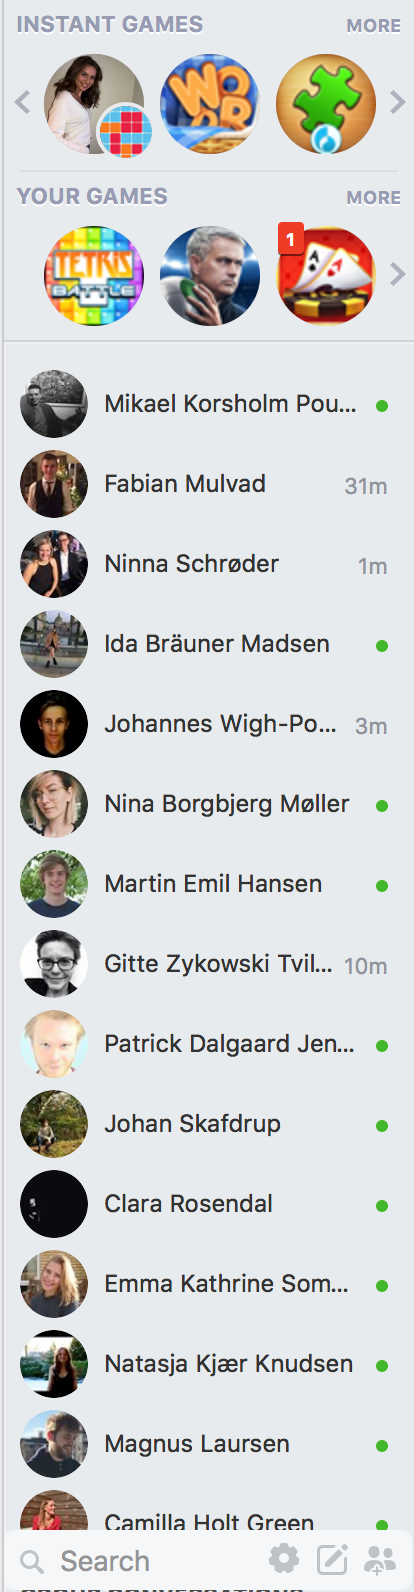
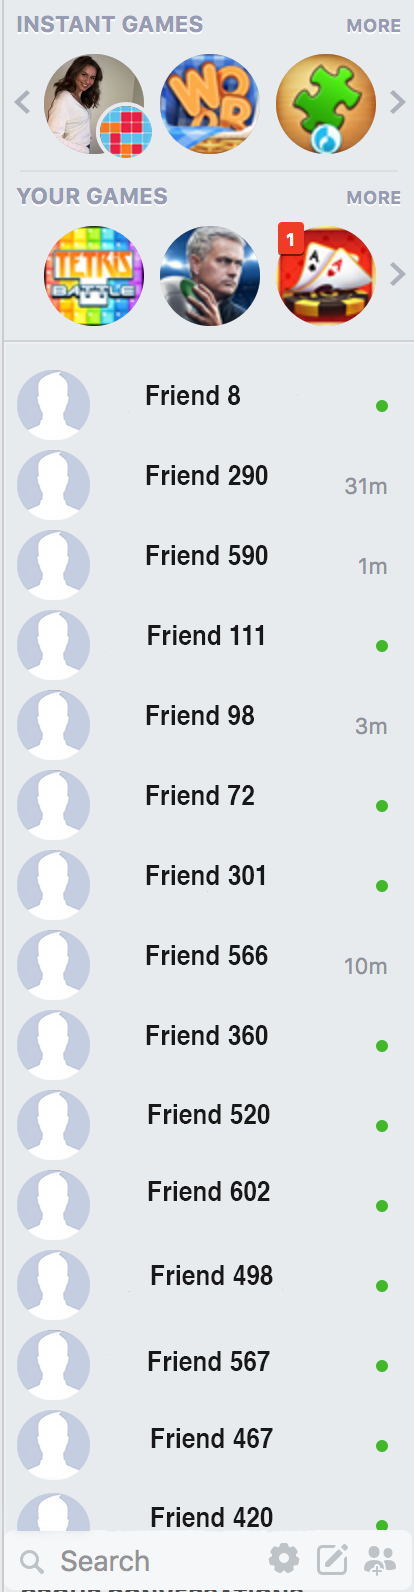
Add files via upload

diff --git a/DraftProject/empty-example/sketch.js b/DraftProject/empty-example/sketch.js
@@ -1,43 +1,345 @@
+let posts = [];
+let posts1 = [];
+let notifi = [];
+let notifi1 = [];
+let notiText = ['is looking at your post.', 'liked your post after 20 seconds.',
+'liked your post after 32 seconds.','liked your post after 11 seconds.',
+'liked your post after 64 seconds.','liked your post after 4 seconds.',
+'liked your post after 2 seconds.','liked your post after 14 seconds.',
+'has scrolled past your post.','has scrolled past your post.','has scrolled past your post.',
+'has scrolled past your post.','has scrolled past your post.','has scrolled past your post.',
+'has scrolled past your post.','has scrolled past your post.','has scrolled past your post.',
+'has scrolled past your post.','has scrolled past your post.','has scrolled past your post.',
+'has scrolled past your post.','has scrolled past your post.','has scrolled past your post.',
+'has scrolled past your post.','has scrolled past your post.','has scrolled past your post.',
+'has scrolled past your post.','has scrolled past your post.','has scrolled past your post.',
+'has scrolled past your post.','has scrolled past your post.','has scrolled past your post.',
+'is writing a reply.', 'is visiting your profile.'];
+let tekster = ['Spilled coffee all over myself fml', 'Chillin in the sun and feeling blessed rn'
+,'Cant belive what Trump just did #notmypresident','Going to the movies l8r cant wait!',
+'Omw to the park','Loking forward to summer vacay','Any suggestions for where to go on holiday?',
+'Whos going to Northside?','My phone is in rep, pm me here instead','Watch out for the speed check on E45!'];
+let noti;
+let img;
 var topbar;
-var sidebarLeft;
+var sidebarleft;
 var sidebarRight;
 var staTus;
 var ads;
+var button;
+var input;
+var feeling;
+var y = 30;
+var p = 30;
+var j = 200;
+var button1;
+var button2;
+var button3;
+var button4;
+var button5;
+var z = '0';
+
+//var fc = millis();
+
 
 function preload(){
-  sidebarLeft = loadImage('sidebarLeft.png');
+  sidebarleft = loadImage('sidebarLeft.png');
   sidebarRight = loadImage('sidebarright.png');
   topbar = loadImage('topbar5.png');
   staTus = loadImage('status.png');
   ads = loadImage('ads.png');
+  img = loadImage('post.png');
+  noti = loadImage('notification.png');
 }
 
 function setup() {
-  var inp = createInput('What is on your mind?');
-  inp.input(myInputEvent);
+
+  frameRate(60);
+
   createCanvas(windowWidth, 4000);
-  inp.position(width/2-285, 100);
-  inp.size(420,50);
+
+  input = createInput('What is on your mind?');
+  input.position(width/2-285, 100);
+  input.size(420,50);
+
+
+  button = createButton('Post');
+  button.position(width/2-340,169);
+  button.style('border','none');
+  button.style('width','140px');
+  button.style('border-radius', '14px');
+  button.style('height','28px');
+  button.style('background-color', '#FAF6F8');
+  button.style('font-weight', 'bold');
+  button.style('font-size', '12px');
+  button.style('cursor', 'pointer');
+  button.mousePressed(startProces);
+//  button.mousePressed(changeBack);
+
+  button1 = createButton('');
+  button1.position(width/4-15, 343+y);
+  button1.size(170, 35);
+  button1.style('opacity', '0.4');
+  button1.style('background-color','rgb(255,255,255)');
+  button1.mousePressed(like);
+
+  button2 = createButton('');
+  button2.position(width/4-15, 343+y+j);
+  button2.size(170, 35);
+  button2.style('opacity', '0.4');
+  button2.style('background-color','rgb(255,255,255)');
+  button2.mousePressed(like1);
+
+  button3 = createButton('');
+  button3.position(width/4-15, 343+y+2*j);
+  button3.size(170, 35);
+  button3.style('opacity', '0.4');
+  button3.style('background-color','rgb(255,255,255)');
+  button3.mousePressed(like2);
+
+  button4 = createButton('');
+  button4.position(width/4-15, 343+y+3*j);
+  button4.size(170, 35);
+  button4.style('opacity', '0.4');
+  button4.style('background-color','rgb(255,255,255)');
+  button4.mousePressed(like3);
+
+  button5 = createButton('');
+  button5.position(width/4-15, 343+y+4*j);
+  button5.size(170, 35);
+  button5.style('opacity', '0.4');
+  button5.style('background-color','rgb(255,255,255)');
+  button5.mousePressed(like4);
+  feeling = new post(width/2, y);
+
+
+  h = floor(random(5));
+
+}
+
+function startProces(){
+  createPost();
+  changeBack();
+}
+
+function changeBack(){
+  button1.style('background-color', 'rgb(255,255,255)');
+}
+
+function changeBg(){
+  button1.style('background-color', 'rgb(0,0,255)');
+}
+
+function changeBg1(){
+  button2.style('background-color', 'rgb(0,0,255)');
+}
+
+function changeBg2(){
+  button3.style('background-color', 'rgb(0,0,255)');
+}
+
+function changeBg3(){
+  button4.style('background-color', 'rgb(0,0,255)');
+}
+
+function changeBg4(){
+  button5.style('background-color', 'rgb(0,0,255)');
+}
+
+function like(){
+  changeBg();
+  createLike();
+}
+function like1(){
+  changeBg1();
+  createLike();
+}
+function like2(){
+  changeBg2();
+  createLike();
+}
+function like3(){
+  changeBg3();
+  createLike();
+}
+function like4(){
+  changeBg4();
+  createLike();
 }
 
 function draw() {
+  setTimeout(alleforloops,1);
   background(234,235,239);
+
   noStroke();
   fill(65, 103, 178);
   rect(0,0,windowWidth, 43);
+
+//Images that make up the layout of the page
   image(topbar, 0,0);
-  image(sidebarLeft, 0, 60, 275, 600);
+  image(sidebarleft, 0, 60, 275, 600);
   image(sidebarRight, windowWidth-230, 60, 200, 750);
   image(staTus, width/2-350, 60, 500, 150);
   image(ads, width-480, 59, 250, 750);
-  text(this.value(), 50, 50);
+
+  print(frameCount);
+
+//For-loops regarding notification
+
+  for (let i = 0; i < 5; i++){
+    notifi[i] = new notification (0, p);
+    p = p - 110;
+  }
+
+  for (let i = 0; i < 2; i++){
+    notifi1[i] = new notification1 (0, p);
+  }
+
+//For-loops regarding posts
+
+  for (let i = 0; i < 5; i++){
+    posts[i] = new post (0, y);
+    y=y+200;
+  }
+  for (let i = 0; i < 10; i++) {
+    posts[i].push();
+    posts[i].show1();
+  }
+}
+
+function alleforloops(){
 
 }
 
-function mousePressed(){
-  console.log(mouseX, mouseY);
+
+function createLike(){
+  for (let i = 0; i < 1; i++){
+    notifi1[i].show();
+    }
 }
 
-function myInputEvent(){
-  text(this.value(), width/2-350,50);
+function createPost(){
+  feeling.push();
+  feeling.show2();
+  y=y+200;
+
+//Notifications being shown
+for (let i = 0; i < 100  ; i++){
+setTimeout(createNotification, random(100000));
+setTimeout(secondNotification, 5000);
+setTimeout(thirdNotification, 8000);
+setTimeout(fourthNotification, 10000);
+setTimeout(fifthNotification, 12000);
+  }
+}
+
+function secondNotification(){
+  setTimeout(createNotification1, random(100000));
+}
+function thirdNotification(){
+  setTimeout(createNotification2, random(100000));
+}
+function fourthNotification(){
+  setTimeout(createNotification3, random(100000));
+}
+function fifthNotification(){
+  setTimeout(createNotification4, random(100000));
+}
+
+function createNotification(){
+for (let i = 0; i < 1; i++){
+  notifi[i].show();
+  }
+}
+
+function createNotification1(){
+for (let i = 0; i < 2; i++){
+  notifi[i].show();
+  }
+}
+function createNotification2(){
+for (let i = 0; i < 3; i++){
+  notifi[i].show();
+  }
+}
+function createNotification3(){
+for (let i = 0; i < 4; i++){
+  notifi[i].show();
+  }
+}
+function createNotification4(){
+for (let i = 0; i < 5; i++){
+  notifi[i].show();
+  }
+}
+
+//Class for the creation of posts
+class post{
+  constructor (x, y){
+    this.x = x;
+    this.y = y;
+  }
+
+  push (){
+    this.x = width/3;
+    this.y = this.y+200;
+  }
+
+  show1 (){
+    image(img, width/4-25, this.y, 490, 180);
+    fill (50,50,50);
+    textSize (20);
+    text (random (tekster), width/4-10, this.y+90);
+    textSize (18);
+    fill (65, 87, 144);
+    text ('Friend', width/4+32, this.y+28);
+    text (floor (random (1, 10)), width/4+90, this.y+28);
+}
+  show2 (){
+    image(img, width/4-25, this.y, 490, 180);
+    fill (50,50,50);
+    textSize (20);
+    text (input.value(), width/4-10, this.y+90);
+    textSize (18);
+    fill (65, 87, 144);
+    text ('You', width/4+32, this.y+28);
+
+  }
+}
+
+
+// Class for the creation of notification
+class notification{
+  constructor(x, p){
+    this.x = x;
+    this.y = p;
+  }
+
+  push1(){
+    this.x = width/2;
+    this.y = this.y;
+  }
+
+  show(){
+    image(noti, width/6-205, this.y+450, 275, 100);
+    text ('Friend'+ ' '+ floor(random(500)) + ' ' + random(notiText), width/6-150, this.y+475, 200);
+
+  }
+}
+
+class notification1{
+  constructor(x, p){
+    this.x = x;
+    this.y = p;
+  }
+
+  push1(){
+    this.x = width/2;
+    this.y = this.y;
+  }
+
+  show(){
+    image(noti, width/6-205, this.y+1000, 275, 100);
+    text ('You'+' liked a post after looking at it for ' + floor(random(4,12)) + ' seconds.', width/6-150, this.y+1020, 200);
+  }
 }
